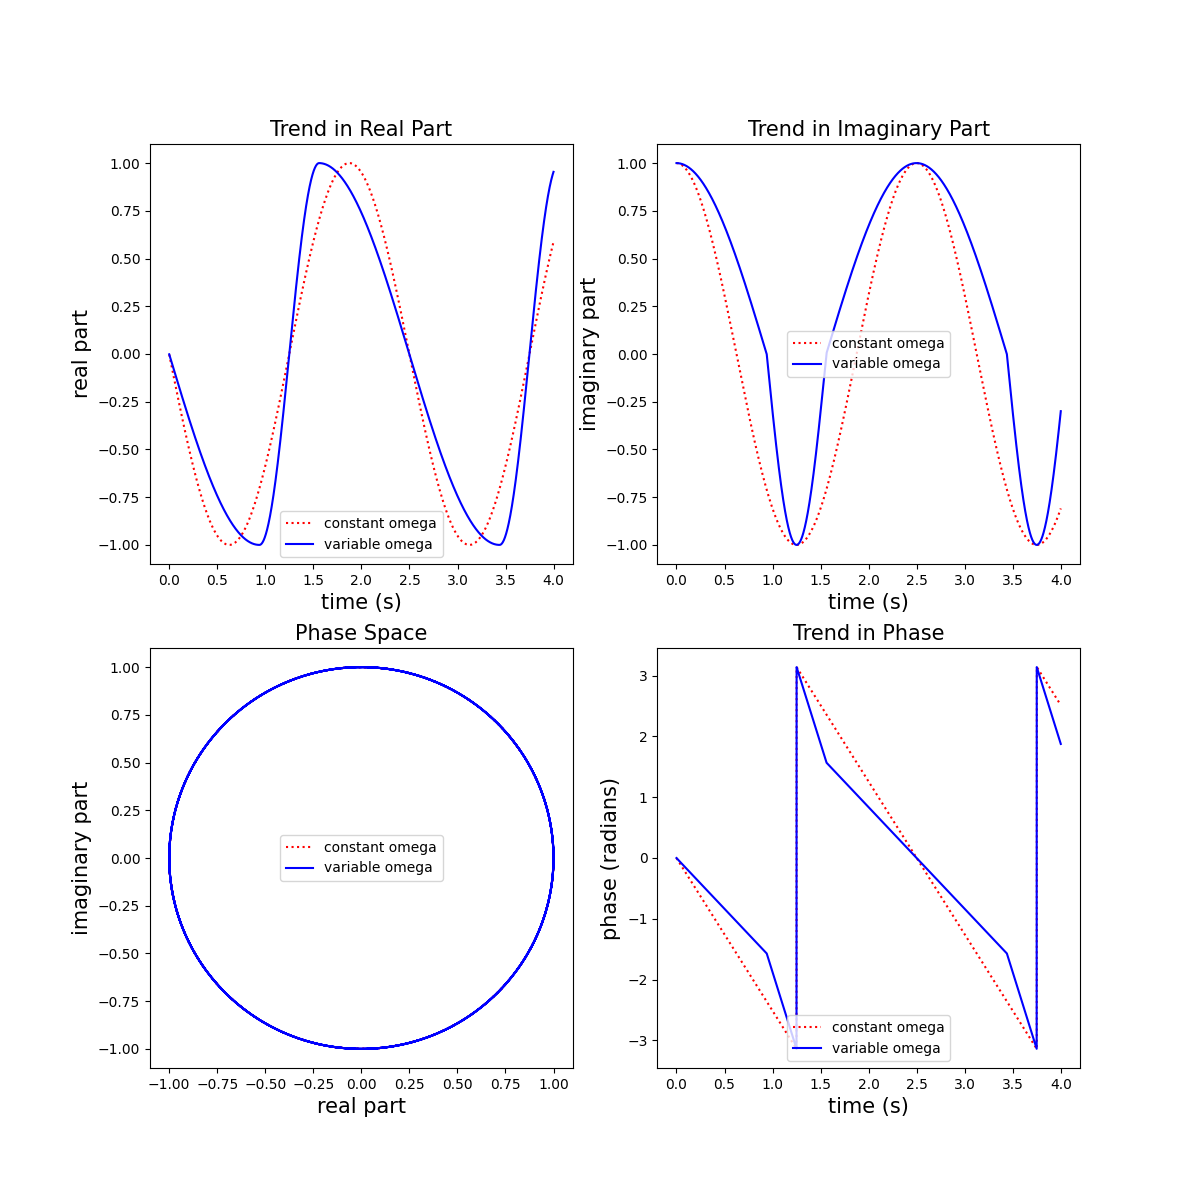
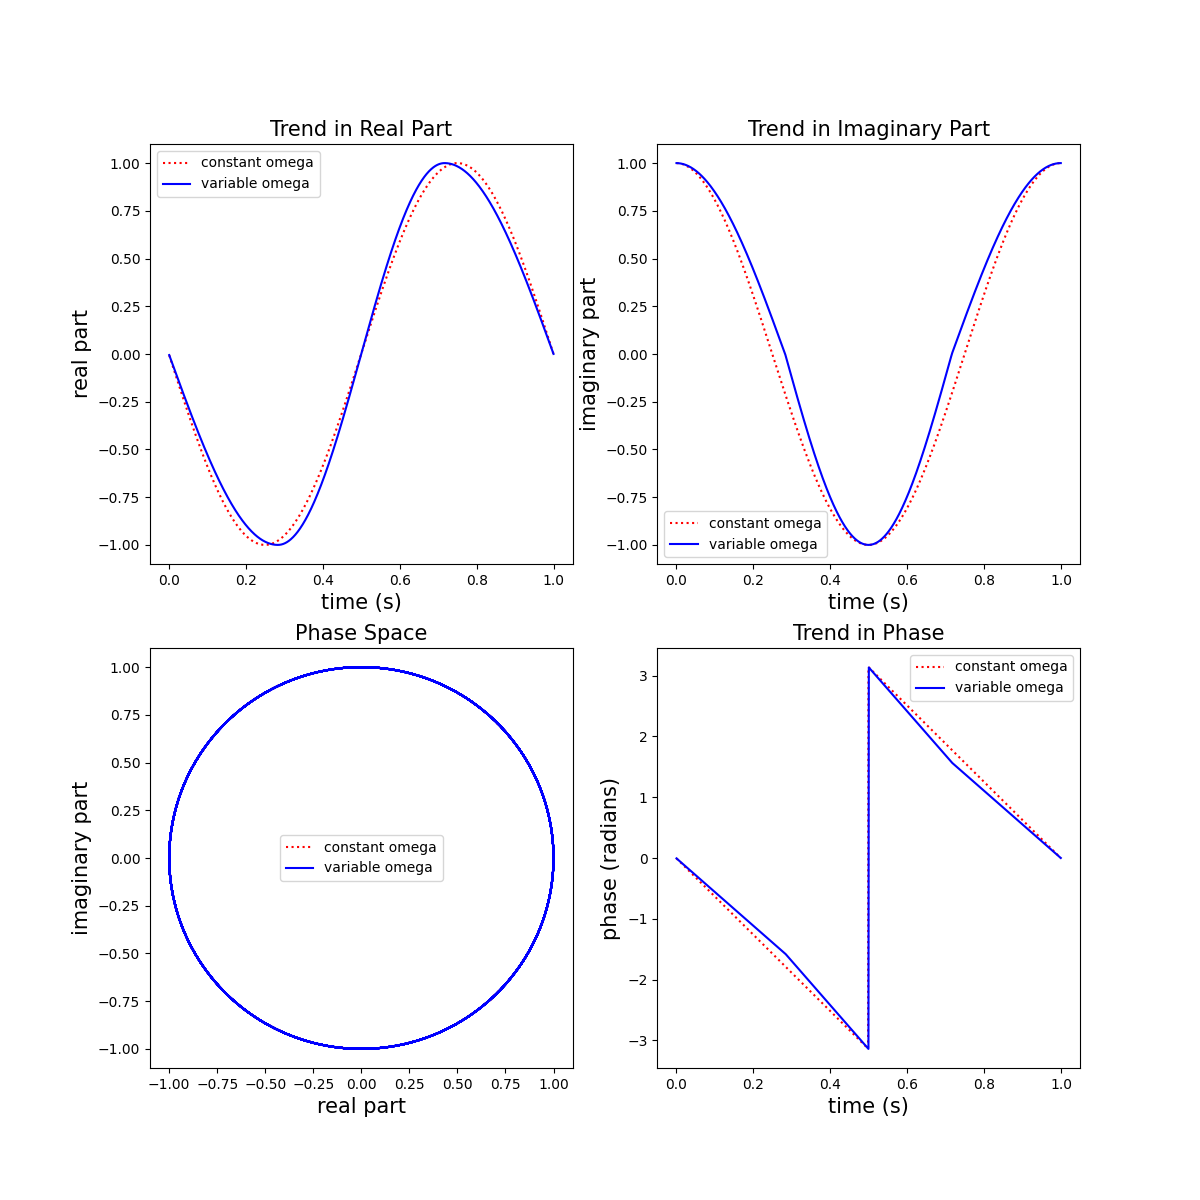
commit entrainment not functioning

diff --git a/oscillator.py b/oscillator.py
@@ -5,6 +5,7 @@ from constants import params
 import argparse
 import shutil
 from tqdm import tqdm
+from utils.cpg_utils import test_cpg_entrainment
 
 def hopf_simple_step(omega, mu, z, dt = 0.001):
     x, y = np.split(z, 2, -1)
@@ -103,48 +104,12 @@ def hopf_mod_step(omega, mu, z, C, degree, dt = 0.001):
     amplitude = (1 - 2 * beta) / (2 * beta * (1 - beta))
     w = np.abs(omega) * (mean + amplitude * _get_omega_choice(phi))
     phi += dt * w 
-    r += dt * (mu - r ** 2) * r 
+    r += params['lambda'] * dt * (mu - r ** 2) * r 
     x = r * np.cos(phi)
     y = r * np.sin(phi)
     z_ = np.concatenate([x, y], -1) 
     return z_, w
 
-def findLocalMaximaMinima(n, arr):
-
-    # Empty lists to store points of
-    # local maxima and minima
-    mx = []
-    mn = []
-
-    # Checking whether the first point is
-    # local maxima or minima or neither
-    if(arr[0] > arr[1]):
-        mx.append(0)
-    elif(arr[0] < arr[1]):
-        mn.append(0)
-
-    # Iterating over all points to check
-    # local maxima and local minima
-    for i in range(1, n-1):
-
-        # Condition for local minima
-        if(arr[i-1] > arr[i] < arr[i + 1]):
-            mn.append(i)
-
-        # Condition for local maxima
-        elif(arr[i-1] < arr[i] > arr[i + 1]):
-            mx.append(i)
-
-    # Checking whether the last point is
-    # local maxima or minima or neither
-    if(arr[-1] > arr[-2]):
-        mx.append(n-1)
-    elif(arr[-1] < arr[-2]):
-        mn.append(n-1)
-
-        # Print all the local maxima and
-        # local minima indexes stored
-    return np.array(mx), np.array(mn)
 
 def cpg_step(omega, mu, z1, z2, phase, C, degree, dt = 0.001):
     z1 = hopf_simple_step(omega, mu, z1, dt) 
@@ -159,27 +124,18 @@ def cpg_step(omega, mu, z1, z2, phase, C, degree, dt = 0.001):
     z2 += dt * params['coupling_strength'] * coupling
     return z2, w, z1
 
-def cpg_step_v2(omega, mu, z1, z2, phase, C, degree, dt = 0.001):
-    z1 = hopf_simple_step(omega, mu, z1, dt) 
-    z2, w = hopf_mod_step(omega, mu, z2, C, params['degree'], dt) 
-    x1, y1 = np.split(z1, 2, -1)
-    p1 = np.arctan2(y1, x1)
-    r1 = np.sqrt(x1 ** 2 + y1 ** 2)
-    x1 = (
-        r1 ** (np.abs(w) / np.abs(omega * 2))
-    ) * np.cos(p1 * np.abs(w) / np.abs(omega * 2))
-    y1 = (
-        r1 ** (np.abs(w) / np.abs(omega * 2))
-    ) * np.sin(p1 * np.abs(w) / np.abs(omega * 2))
-    xs = np.cos(phase / np.abs(2 * omega))
-    ys = np.sin(phase / np.abs(2 * omega))
-    coupling = np.concatenate([
-        xs * x1 - ys * y1, 
-        xs * y1 + x1 * ys
-    ], -1) 
-    z2 += dt * params['coupling_strength'] * coupling
-    return z2, w, z1
-
+def cpg(omega, mu, phase, C, degree, N, dt = 0.001):
+    Z1 = []
+    Z2 = []
+    W = []
+    z1 = np.array([1, 0], dtype = np.float32)
+    z2 = z1.copy()
+    for i in range(N):
+        z2, w, z1 = cpg_step(omega, mu, z1, z2, phase, degree, dt)
+        Z1.append(z1.copy())
+        Z2.append(z2.copy())
+        W.append(w.copy())
+    return np.stack(Z2, 0), np.stack(W, 0), np.stack(Z1, 0)
 
 if __name__ == '__main__':
     parser = argparse.ArgumentParser()
@@ -284,5 +240,6 @@ if __name__ == '__main__':
         axes[1][1].set_title('Trend in Phase')
     fig.savefig(os.path.join(plot_path, 'phase_comparison.png'))
     plt.show()
+    test_cpg_entrainment(cpg, C, hopf_mod)
     print('Done.')
     print('Thank You.')

diff --git a/utils/cpg_utils.py b/utils/cpg_utils.py
@@ -1,0 +1,83 @@
+import numpy as np
+import pandas as pd
+from constants import params
+import matplotlib.pyplot as plt
+from tqdm import tqdm
+
+def findLocalMaximaMinima(n, arr):
+
+    # Empty lists to store points of
+    # local maxima and minima
+    mx = []
+    mn = []
+
+    # Checking whether the first point is
+    # local maxima or minima or neither
+    if(arr[0] > arr[1]):
+        mx.append(0)
+    elif(arr[0] < arr[1]):
+        mn.append(0)
+
+    # Iterating over all points to check
+    # local maxima and local minima
+    for i in range(1, n-1):
+
+        # Condition for local minima
+        if(arr[i-1] > arr[i] < arr[i + 1]):
+            mn.append(i)
+
+        # Condition for local maxima
+        elif(arr[i-1] < arr[i] > arr[i + 1]):
+            mx.append(i)
+
+    # Checking whether the last point is
+    # local maxima or minima or neither
+    if(arr[-1] > arr[-2]):
+        mx.append(n-1)
+    elif(arr[-1] < arr[-2]):
+        mn.append(n-1)
+
+        # Print all the local maxima and
+        # local minima indexes stored
+    return np.array(mx), np.array(mn)
+
+def test_cpg_entrainment(cpg, C, hopf_mod):
+    omega = np.random.uniform(low = 0.0, high = 2 * np.pi, size = (1,))
+    mu = np.random.uniform(low = 0.0, high = 1.0, size = (1,))
+    phase = np.random.uniform(low = 0.0, high = 2 * np.pi, size = (1,))
+    N = 10000
+    dt = 0.005
+    lambdas = np.arange(1.0, 100, 5.0).tolist()
+    fig, ax = plt.subplots(1, 2, figsize = (20, 10))
+    steps = int(2 * np.pi / (omega[0] * dt))
+    params['dt'] = 0.005
+    z = np.concatenate([np.cos(phase), np.sin(phase)], -1)
+    Z = hopf_mod(omega, mu, z, C, params['degree'], N, dt)
+    x, y = np.split(Z, 2, -1)
+    phi_ref = np.arctan2(y, x)
+    
+    def func(x):
+        if x < 0:
+            return x + 2 * np.pi
+        else:
+            return x
+    func = np.vectorize(func)
+    phi_ref = func(phi_ref)
+
+    for lmbda in tqdm(lambdas):
+        params['lambda'] = lmbda
+        Z2, W, Z1 = cpg(omega, mu, phase, C, params['degree'], N, dt)
+        x, y = np.split(Z2, 2, -1)
+        r = np.sqrt(np.square(x) + np.square(y))
+        phi = np.linalg.norm(func(np.arctan2(y, x)) - phi_ref, axis = -1)
+        color = np.random.uniform(low = 0.0, high = 1.0, size = (3,))
+        T = np.arange(N) * 5 *  params['dt']
+        ax[0].plot(T, r,
+            color = color,
+            label = '\u03BB: {}'.format(lmbda))
+        ax[1].plot(T, phi,
+            color = color,
+            label = '\u03BB: {}'.format(lmbda))
+    ax[0].legend(loc = 'upper right')
+    ax[1].legend(loc = 'upper right')
+    plt.show()

diff --git a/constants.py b/constants.py
@@ -453,7 +453,7 @@ params.update({
     'observation_version'         : 0,
     'max_epoch_size'              : 100,
     'env_version'                 : 1,
-    'coupling_strength'           : 1,
+    'coupling_strength'           : 0.01,
     'weight_net_units'            : [256, 512, 1024, 512, 256],
     'save_freq'                   : 1000,
     'render_freq'                 : 5000,
@@ -475,6 +475,7 @@ params.update({
                                         },
                                     
                                     },
+    'lambda'                      : 100,
 })
 
 if params['observation_version'] == 0:

diff --git a/llc.py b/llc.py
@@ -6,7 +6,7 @@ import argparse
 import copy
 from constants import params
 from simulations import QuadrupedV2
-from oscillator import cpg_step, hopf_mod_step, hopf_simple_step, cpg_step_v2
+from oscillator import cpg_step, hopf_mod_step, hopf_simple_step
 import matplotlib.pyplot as plt
 import gym
 import stable_baselines3 as sb3
